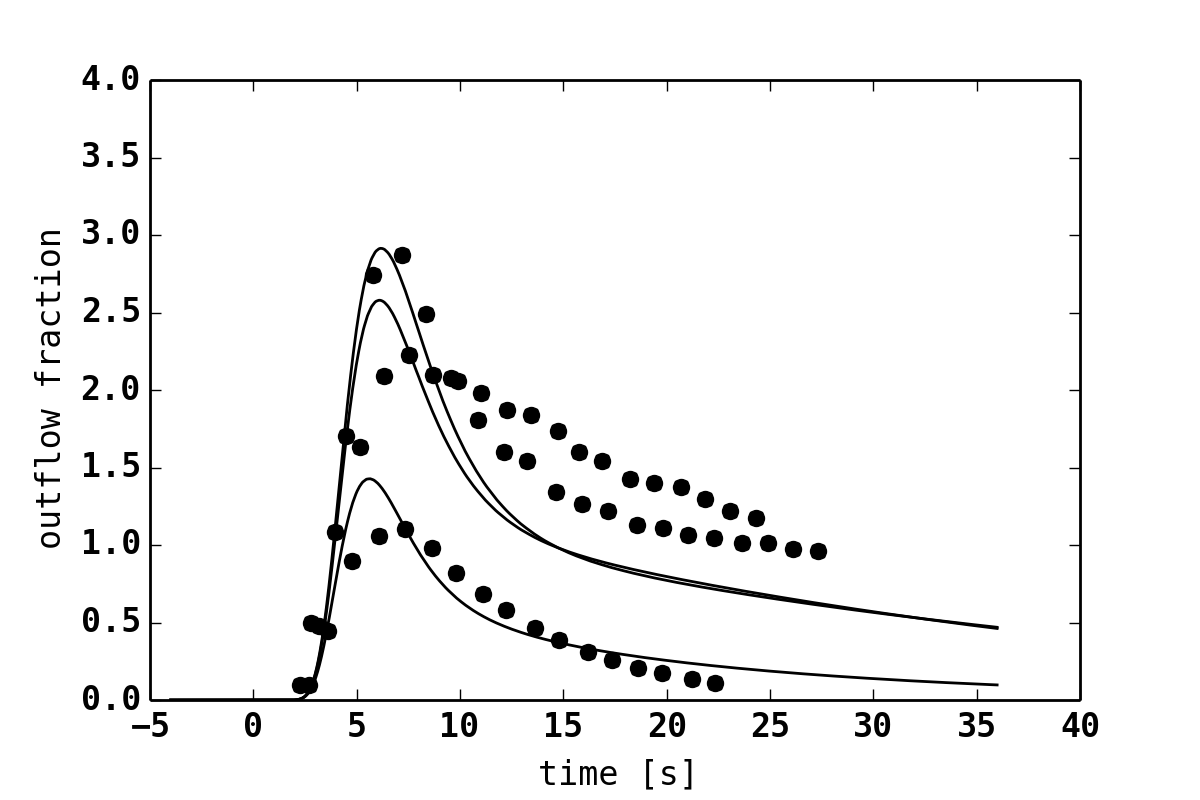
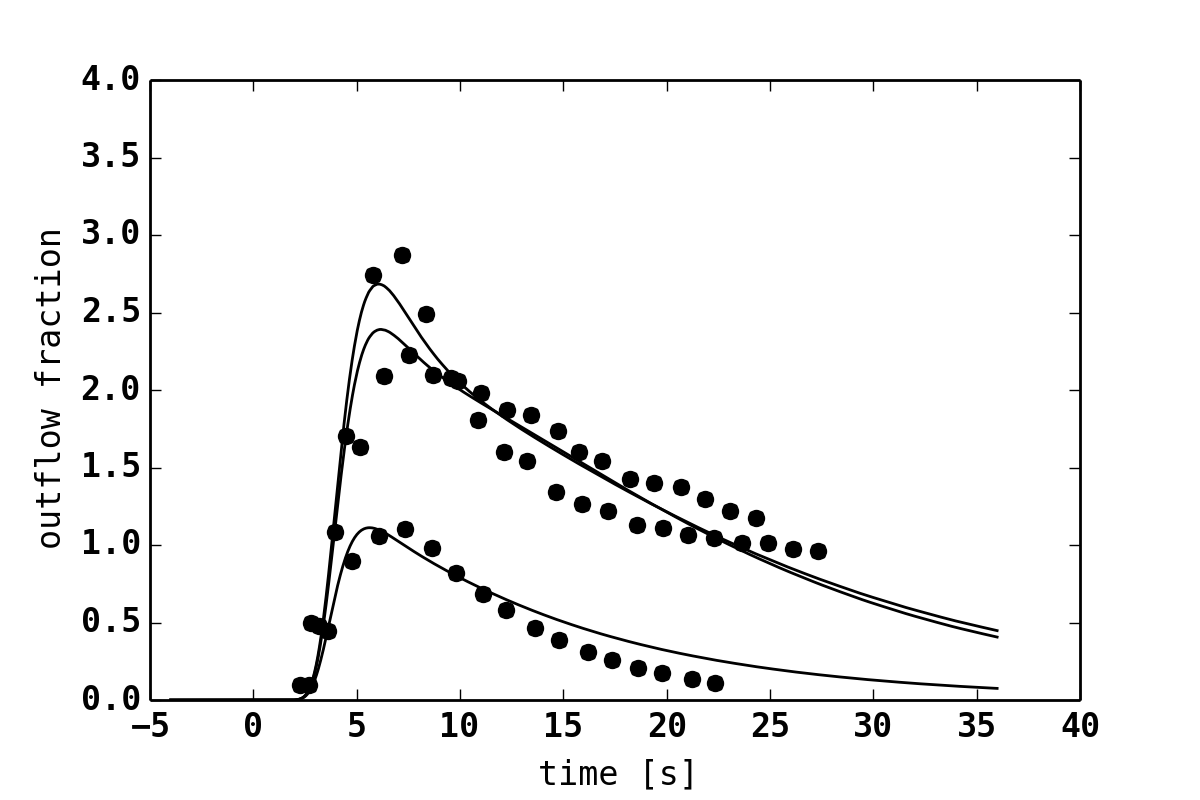
Good parameter fit

diff --git a/python/simulator/simulator/roadrunner_tools/galactose_dilution_flux.py b/python/simulator/simulator/roadrunner_tools/galactose_dilution_flux.py
@@ -17,7 +17,7 @@ reload(gf)
 
 #########################################################################    
 
-VERSION = 92
+VERSION = 93
 SBML_DIR = '/home/mkoenig/multiscale-galactose-results/tmp_sbml'
 T_PEAK = 5000
 
@@ -56,14 +56,14 @@ for gal in [0.28, 12.5, 17.5]:
     p_list = []
     for f in flux:
         d = { 
-              # 't_duration':0.5,
               "[PP__gal]" : gal, 
               "flow_sin" : f*1E-6 * 0.5,    
-              "y_dis" : 2.7E-6,
-              "y_cell" : 1.2*6.19E-6,
+              "y_dis" : 2.4E-6,
+              # "y_cell" : 0.7*6.19E-6,
+              "f_cyto" : 0.5,
               "scale_f" : 0.85,           
-              "H2OT_f": 10.0,
-              "GLUT2_f" : 3.7, 
+              "H2OT_f": 5.0,
+              "GLUT2_f" : 7, 
               # "y_peak" : 0.5,
               # "GALK_PA" :  0.02,
               }
@@ -121,8 +121,8 @@ rp.average_plots(timepoints, av_mats, xlim=tlim, show=show_plots)
 # rp.plot_data_with_sim(exp_data, timepoints, av_mats, scale=4.0*15.16943, time_shift=1.5)
 # rp.plot_gal_data_with_sim(exp_data, timepoints, av_mats, scale=4.0*15.16943, time_shift=1.5)        
 
-rp.plot_data_with_sim(exp_data, timepoints, av_mats, scale=3.9*15.16943, time_shift=1.0)
-rp.plot_gal_data_with_sim(exp_data, timepoints, av_mats, scale=3.9*15.16943, time_shift=1.0)   
+rp.plot_data_with_sim(exp_data, timepoints, av_mats, scale=3.8*15.16943, time_shift=1.0)
+rp.plot_gal_data_with_sim(exp_data, timepoints, av_mats, scale=3.8*15.16943, time_shift=1.0)   
  
 
 

diff --git a/python/modelcreator/modelcreator/models/GalactoseFactory.py b/python/modelcreator/modelcreator/models/GalactoseFactory.py
@@ -20,9 +20,9 @@ from modelcreator.events.event_factory import createGalactoseStepEventData
 if __name__ == "__main__":
     
     # definition of cell model and tissue model
-    Nc = 20
+    Nc = 1
     Nf = 1
-    version = 93
+    version = 94
     cell_model = CellModel.createModel('galactose.GalactoseCell')
     tdict = TissueModel.createTissueDict(['SinusoidalUnit', 
                                           'galactose.GalactoseSinusoid']) 
